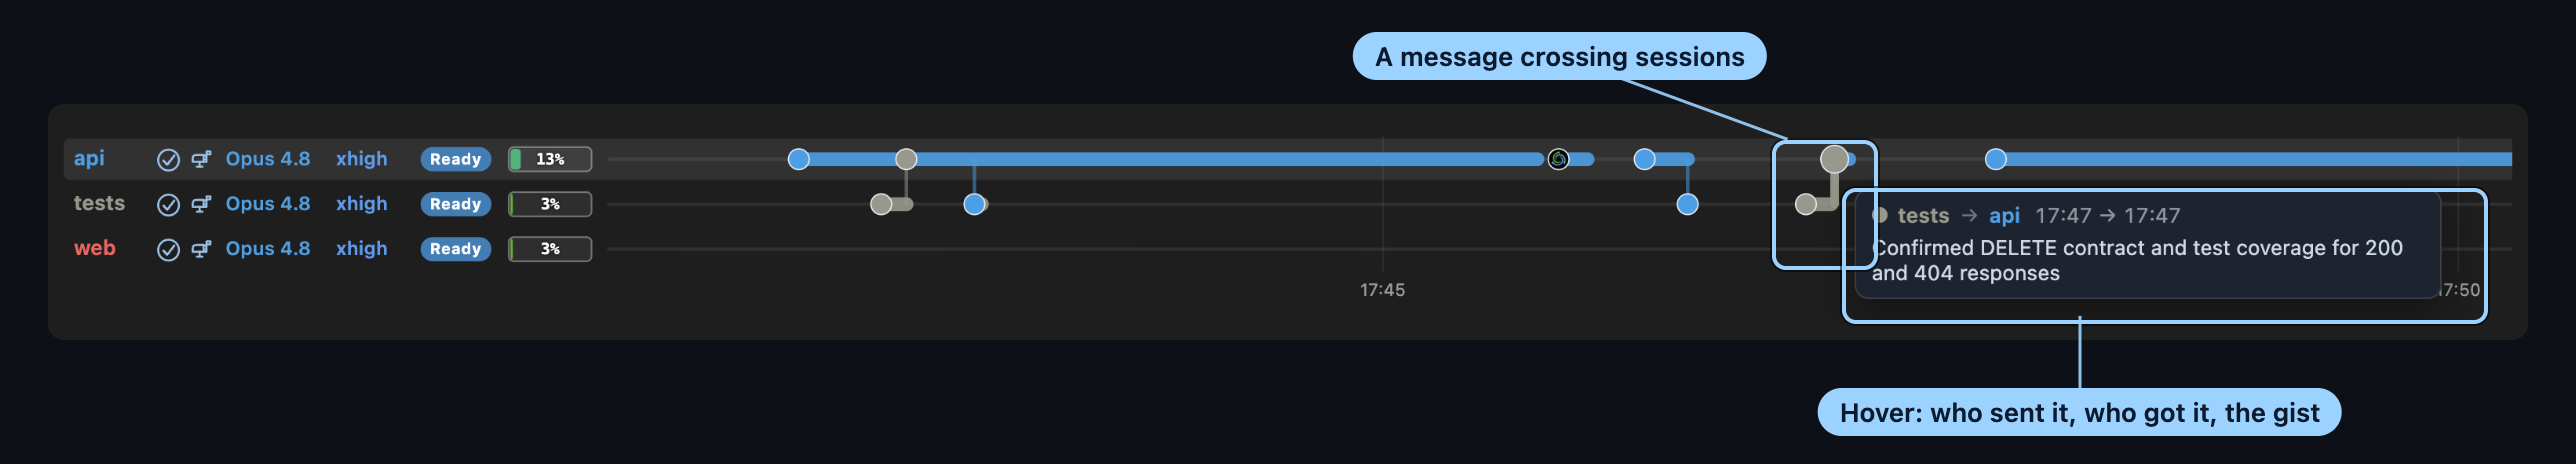
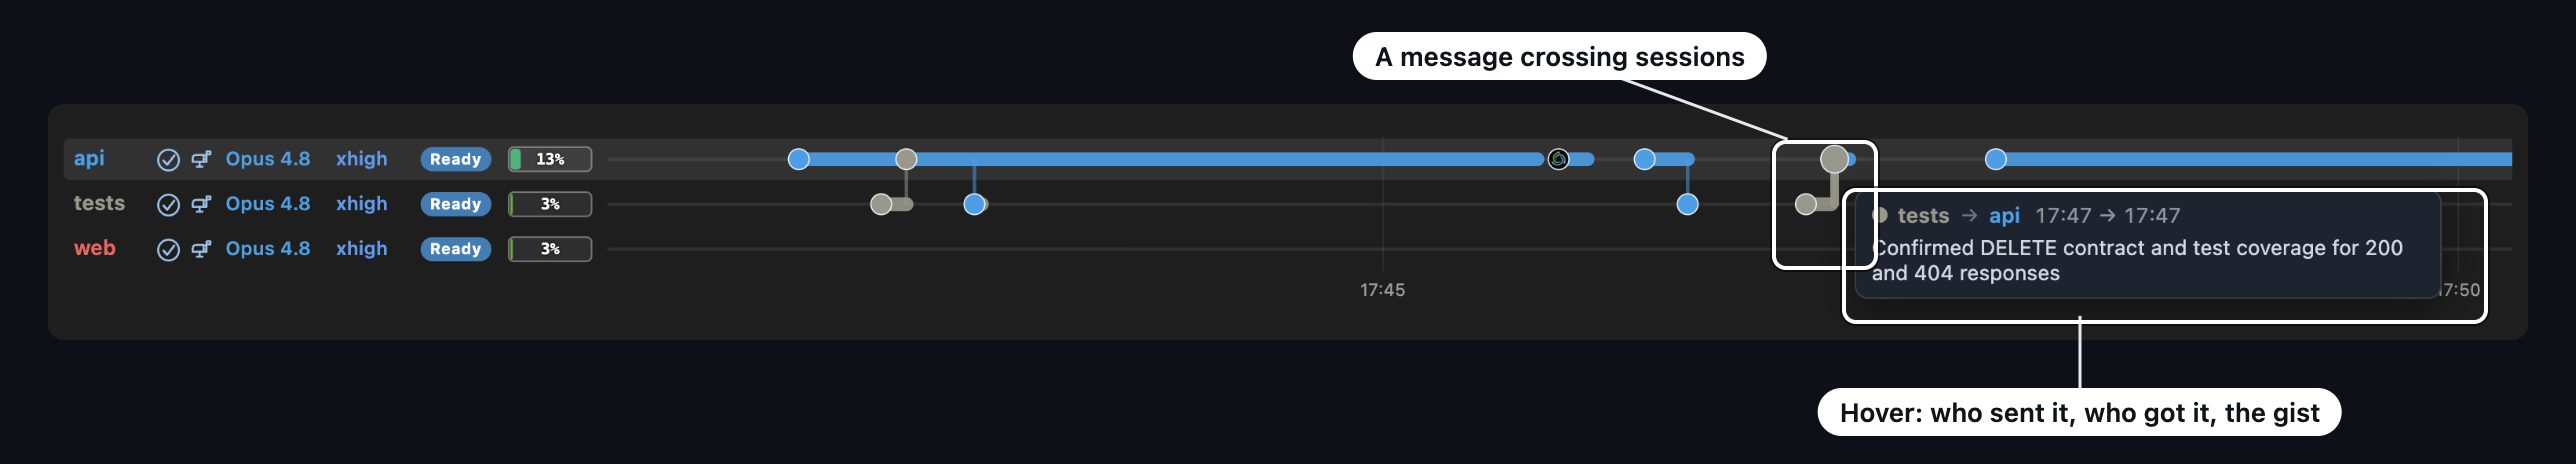
Docs: session-blue header, dark-only, integrated TOC, white callouts
The header wears the session blue (#1EA1EB, the logo's blue arm) with white
text; the pale in-app accent is kept out of docs chrome so it never reads as
romp UI. The site is dark-only: one slate palette, no scheme toggle. Each
page's contents integrate into the left sidebar (toc.integrate), removing the
duplicate right-hand list. Figure callouts regenerate in white for the same
reason as the chrome: annotations must not look like UI.

diff --git a/docs/stylesheets/extra.css b/docs/stylesheets/extra.css
@@ -1,25 +1,22 @@
-/* Romp brand colors. The header (and other "primary" chrome) wears the romp
-   accent blue; text on it is the dark navy that reads on that blue. */
+/* Romp brand colors, dark-only site. The header (and other "primary" chrome)
+   wears the romp session blue (#1EA1EB, the logo's blue arm). The pale in-app
+   accent (#9cd2ff) is deliberately NOT used here, so docs chrome never looks
+   like part of the romp UI in the screenshots. */
 :root {
-  --md-primary-fg-color: #9cd2ff;
-  --md-primary-fg-color--light: #c3e3ff;
-  --md-primary-fg-color--dark: #6fb8f5;
-  --md-primary-bg-color: #0c1a2e;            /* text/icons on the header */
-  --md-primary-bg-color--light: rgba(12, 26, 46, 0.72);
-  --md-accent-fg-color: #4aa8e8;
-  --md-accent-fg-color--transparent: rgba(74, 168, 232, 0.12);
+  --md-primary-fg-color: #1ea1eb;
+  --md-primary-fg-color--light: #56b8f1;
+  --md-primary-fg-color--dark: #1683c4;
+  --md-primary-bg-color: #ffffff;            /* text/icons on the header */
+  --md-primary-bg-color--light: rgba(255, 255, 255, 0.72);
+  --md-accent-fg-color: #56b8f1;
+  --md-accent-fg-color--transparent: rgba(86, 184, 241, 0.12);
 }
 
-/* Links in the body keep a readable blue in both schemes. */
 [data-md-color-scheme="slate"] {
-  --md-typeset-a-color: #9cd2ff;
-}
-[data-md-color-scheme="default"] {
-  --md-typeset-a-color: #1a7ec8;
+  --md-typeset-a-color: #4db8f5;
 }
 
-/* The wordmark banner on the home page: a dark brand block that works on
-   both schemes. */
+/* The wordmark banner on the home page. */
 .romp-wordmark {
   display: block;
   margin: 0 auto 1.2em;
@@ -28,7 +25,7 @@
   border-radius: 14px;
 }
 
-/* Screenshots: soften edges so dark captures sit well on either scheme. */
+/* Screenshots: soften edges. */
 .md-typeset img {
   border-radius: 6px;
 }
